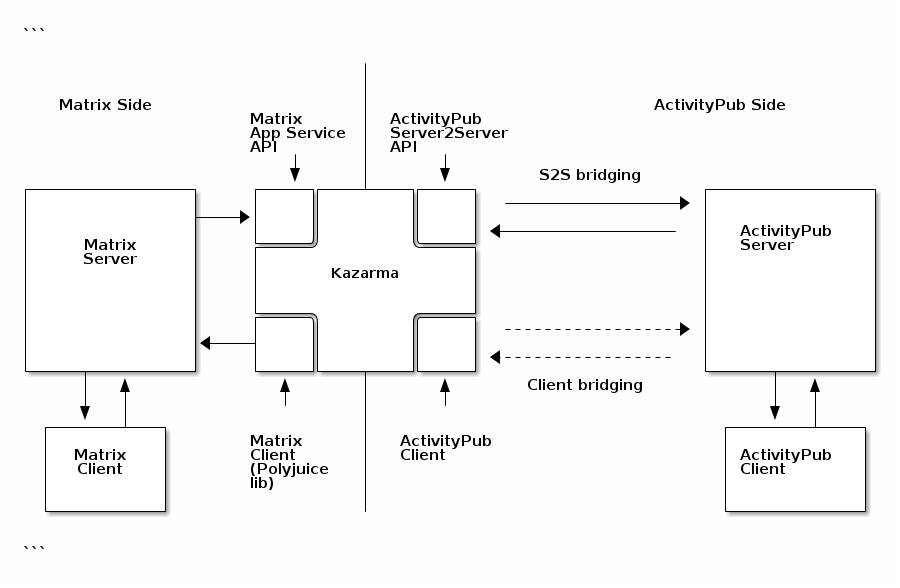
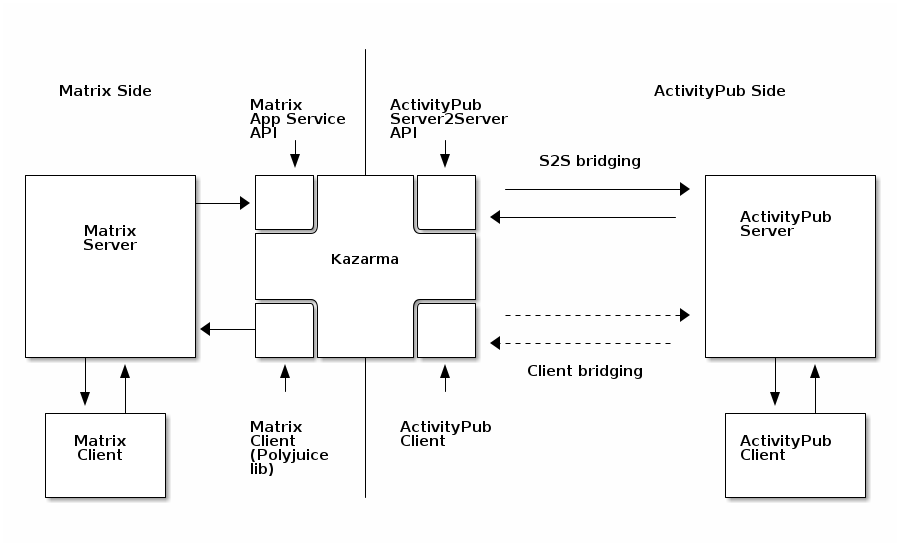
fix overview diagram

diff --git a/doc_diagrams/overview.html b/doc_diagrams/overview.html
@@ -1,4 +1,3 @@
-```
                                   +
                                   |
                                   |
@@ -34,5 +33,3 @@
   |           |                   |                                   |             |
   +-----------+                   |                                   +-------------+
                                   +
-
-```
